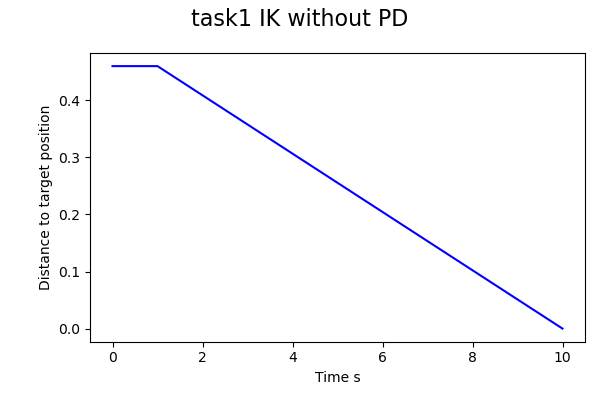
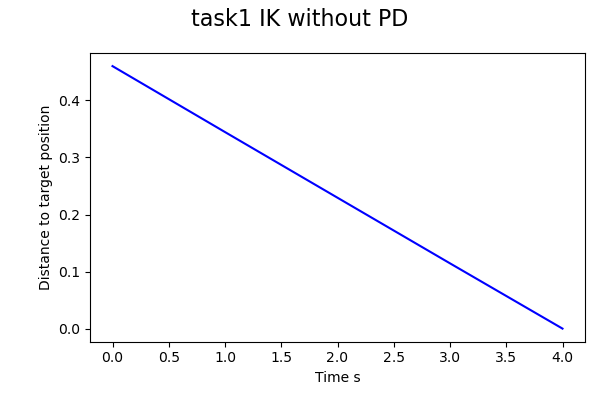
Move with pd now works

diff --git a/core/Pybullet_Simulation.py b/core/Pybullet_Simulation.py
@@ -10,6 +10,7 @@ import math
 import re
 import time
 import yaml
+import pybullet as p
 
 from Pybullet_Simulation_base import Simulation_base
 
@@ -374,11 +375,14 @@ class Simulation(Simulation_base):
  
         traj = [q]
         EFPositions = [np.linalg.norm(efPosition - targetPosition)]
+        EFLocations = [efPosition]
 
-        stepPositions = np.linspace(efPosition,targetPosition,num=interpolationSteps)
+        stepPositions = np.linspace(efPosition,targetPosition,num=interpolationSteps)[1:]
+        print(stepPositions)
         # stepOrientations = np.linspace(efAngle,orientation,num=interpolationSteps)
-        for i in range(interpolationSteps):
+        for i in range(len(stepPositions)):
             currGoal = stepPositions[i]
+            print(currGoal)
             # currGoalTheta = stepOrientations[i]
             
             for iter in range(maxIterPerStep):
@@ -390,6 +394,7 @@ class Simulation(Simulation_base):
                 dq = np.linalg.pinv(jacobian)@dy
 
                 q += dq
+                #print(dq)
                 
                 traj.append(q)
                 
@@ -401,9 +406,11 @@ class Simulation(Simulation_base):
                 
                 #Calculate the FK again with the updated joint angles
                 fkMatrices, jointNames_2 = self.forwardKinematics(endEffector, jointAngles, startJoint)
+
                 assert(jointNames== jointNames_2)
                 #Calculate the new end effector position
                 efPosition, efAngle = self.extractPositionAndAngle(fkMatrices[-1])
+                EFLocations.append(efPosition)
         
                 
                 #TODO: calculate the new end effector 
@@ -411,9 +418,12 @@ class Simulation(Simulation_base):
                 if np.linalg.norm(efPosition - currGoal) < threshold:
                     break
             EFPositions.append(np.linalg.norm(efPosition - targetPosition))
+            
         
         #TODO: You should directly (re)set the joint positions to be the desired values using a method such as Simulation.p.resetJointState() or else
-        return np.array(traj), jointNames, EFPositions
+        
+        
+        return np.array(traj), jointNames, EFPositions, EFLocations
 
     def move_without_PD(self, endEffector, targetPosition, speed=0.01, orientation=None,
         threshold=1e-3, maxIter=3000, debug=False, verbose=False, startJoint = "base_to_dummy"):
@@ -425,15 +435,16 @@ class Simulation(Simulation_base):
         """
         #TODO add your code here
         # iterate through joints and update joint states based on IK solver
-        trajs, names, EFPositions = self.inverseKinematics(endEffector=endEffector, targetPosition=targetPosition, 
+        trajs, names, EFPositions, _ = self.inverseKinematics(endEffector=endEffector, targetPosition=targetPosition, 
                                orientation=orientation,
-                               interpolationSteps=10, #TODO: whats the  interpolation step here?
+                               interpolationSteps=5, #TODO: whats the  interpolation step here?
                                maxIterPerStep=maxIter,
                                threshold=threshold,
                                startJoint=startJoint
                                )
 
         #return pltTime, pltDistance
+
         for traj in trajs:
             self.tick_without_PD(names, traj)
             
@@ -545,21 +556,36 @@ class Simulation(Simulation_base):
         Return:
             pltTime, pltDistance arrays used for plotting
         """
-        targetStatess, jointNames, efPositions = self.inverseKinematics(endEffector=endEffector, targetPosition=targetPosition, 
-                                                orientation=orientation,
-                                                interpolationSteps=100, #TODO: whats the  interpolation step here?
-                                                maxIterPerStep=maxIter,
-                                                threshold=threshold,
-                                                startJoint=startJoint
-                                                )
-        
-        print(targetStatess)
+        targetStatess, jointNames, efPositions, eflocations = self.inverseKinematics(endEffector=endEffector, targetPosition=targetPosition, 
+                                                                orientation=orientation,
+                                                                interpolationSteps=5, #TODO: whats the  interpolation step here?
+                                                                maxIterPerStep=maxIter,
+                                                                threshold=threshold,
+                                                                startJoint=startJoint
+                                                                )
+                        
+        print("Done with kinematics")
+    
+
+
         for i, targetStates in enumerate(targetStatess):
             
-            
-            while(np.linalg.norm(self.getJointPosition(endEffector) - targetPosition) > threshold):
+                visualShift = eflocations[i]
+                collisionShift = [0,0,0]
+                inertiaShift = [0,0,0]
+
+                meshScale=[0.1,0.1,0.1]
+                visualShapeId = p.createVisualShape(shapeType=p.GEOM_SPHERE, rgbaColor=[1,0,0,1],radius= 0.015, visualFramePosition=visualShift, meshScale=meshScale)
+
+                p.createMultiBody(baseMass=0,baseInertialFramePosition=inertiaShift, baseVisualShapeIndex = visualShapeId, basePosition = [0,0,1], useMaximalCoordinates=False)
+
+                for j in range(maxIter):
+            #while(np.linalg.norm(self.getJointPosition(endEffector) - targetPosition) > threshold):
                 
-                self.tick(targetStates, jointNames)
+                    self.tick(targetStatess[-1], jointNames)
+                    print(np.linalg.norm(self.getJointPosition(endEffector) - targetStatess[-1][i]))#eflocations[i]))
+                    if(np.linalg.norm(self.getJointPosition(endEffector) - targetStatess[-1][i]) < threshold):
+                        break
                 
             #print()
             #   
@@ -612,7 +638,7 @@ class Simulation(Simulation_base):
                                             self.jointsInfos[joint]['vel'],
                                             0, kp, ki, kd)  # TODO: fix me
             ### ... to here ###
-        #print(joint, ":", torque)
+            #print(joint, ":", torque)
             self.p.setJointMotorControl2(
                 bodyIndex=self.robot,
                 jointIndex=self.jointIds[joint],

diff --git a/task2/task2.py b/task2/task2.py
@@ -49,7 +49,7 @@ sim = Simulation(pybulletConfigs, robotConfigs)
 # This is an example target (angular) position for the joint LARM_JOINT2
 task2_jointName = "LARM_JOINT5"
 #task2_targetPosition = np.array([1, 1, 1])#)  # joint (angular) position in radians
-task2_targetPosition= targetPosition = np.array([0.37, 0.23, 1.06385]) - np.array([0, 0, 0.85]) 
+task2_targetPosition = np.array([0.37, 0.23, 1.06385]) - np.array([0, 0, 0.85]) #np.array([0.37, 0.23, 1.06385]) + np.array([0, 0, 0.85]) 
 task2_targetVelocity = 0.0  # joint (angular) velocity in radians per second
 verbose = False
 task2_figure_name = "task2_PD_response.png"
@@ -61,6 +61,15 @@ task2_savefig = False
 #     sim.moveJoint(
 #         task2_jointName, task2_targetPosition, task2_targetVelocity, verbose)
 
+
+visualShift = task2_targetPosition
+collisionShift = [0,0,0]
+inertiaShift = [0,0,0]
+
+meshScale=[0.1,0.1,0.1]
+visualShapeId = bullet_simulation.createVisualShape(shapeType=bullet_simulation.GEOM_SPHERE, rgbaColor=[1,1,1,1],radius= 0.05, specularColor=[0.4,.4,0], visualFramePosition=visualShift, meshScale=meshScale)
+
+bullet_simulation.createMultiBody(baseMass=0,baseInertialFramePosition=inertiaShift, baseVisualShapeIndex = visualShapeId, basePosition = [0,0,1], useMaximalCoordinates=False)
 
 sim.move_with_PD(task2_jointName, task2_targetPosition, speed=0.01, orientation=None, threshold=1e-3, maxIter=3000, debug=True, verbose=False, startJoint = "LARM_JOINT0")
 time.sleep(100)

diff --git a/task1/task1.py b/task1/task1.py
@@ -66,7 +66,7 @@ endEffector = "LARM_JOINT5"
 targetPosition = np.array([0.37, 0.23, 1.06385]) #- np.array([0, 0, 0.85])  # x,y,z coordinates in world frame
 # Example code. Feel free to modify
 
-pltTime, pltEFPosition = sim.move_without_PD(endEffector, targetPosition, speed=0.01, orientation=None, threshold=1e-3, maxIter=3000, debug=True, verbose=False, startJoint = "LARM_JOINT0")
+pltTime, pltEFPosition = sim.move_without_PD(endEffector, targetPosition, speed=0.01, orientation=None, threshold=1e-3, maxIter=3000, debug=True, verbose=False, startJoint = "base_to_dummy")
 
 # jointAngles = sim.measureJointAngles()
 
